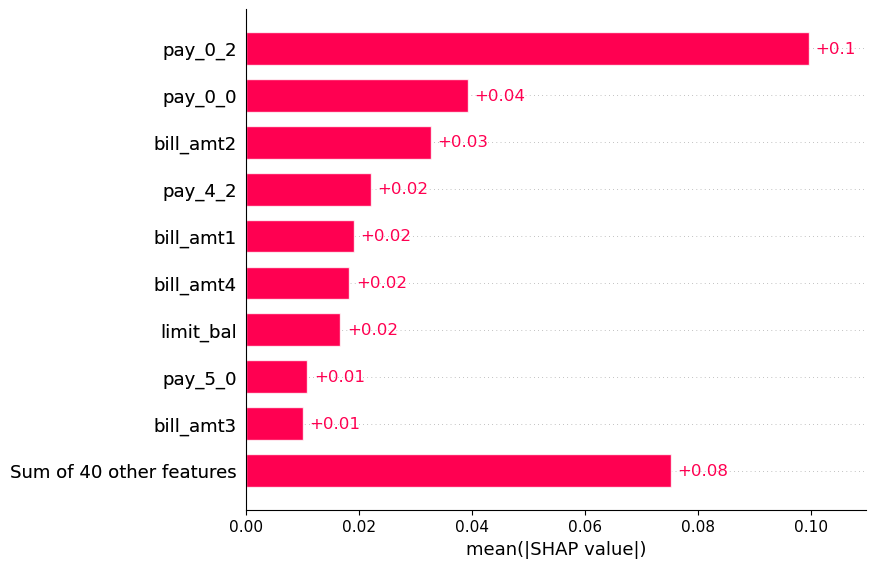
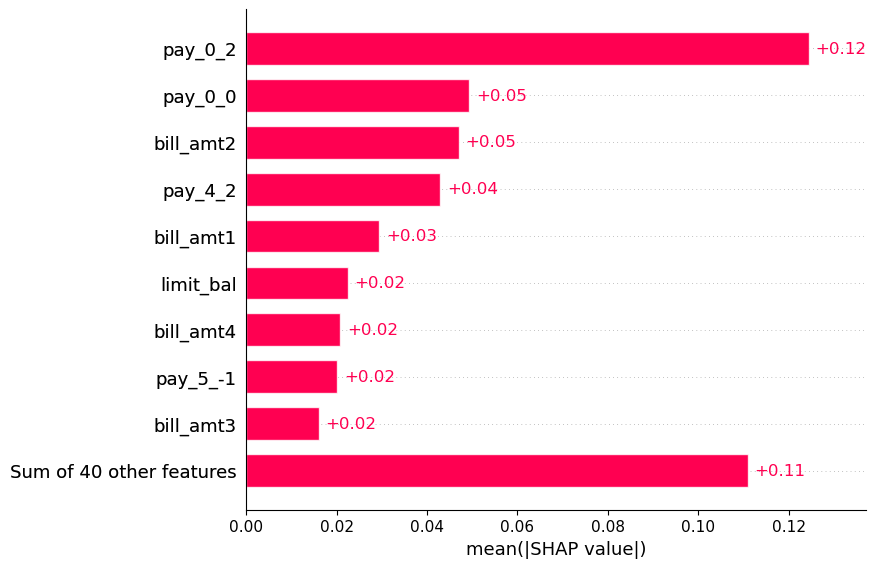
added the performance metric and seperate bm&re model

diff --git a/auto_ml_validation/app/pages/results.py b/auto_ml_validation/app/pages/results.py
@@ -4,54 +4,55 @@ import pandas as pd
 import numpy as np
 from auto_ml_validation.validation_package.evaluation import statistical_metrics_evaluator
 from auto_ml_validation.validation_package.evaluation import transparency_metrics_evaluator
+from auto_ml_validation.validation_package.evaluation import performance_metrics_evaluator
 import pickle
 from sklearn.linear_model import LogisticRegression
 from auto_ml_validation.app.index import app
 import matplotlib.pyplot as plt
 
 ############## start of codes used to load dummy data, remove later #######################
-train_prob = pd.read_csv('././data/stage_2/loanstats_train_proba.csv')
-train_processed = pd.read_csv('././data/stage_2/loanstats_train_processed.csv')
-test_prob = pd.read_csv('././data/stage_2/loanstats_test_proba.csv')
-test_processed = pd.read_csv('././data/stage_2/loanstats_test_processed.csv')
+# train_prob = pd.read_csv('././data/stage_2/loanstats_train_proba.csv')
+# train_processed = pd.read_csv('././data/stage_2/loanstats_train_processed.csv')
+# test_prob = pd.read_csv('././data/stage_2/loanstats_test_proba.csv')
+# test_processed = pd.read_csv('././data/stage_2/loanstats_test_processed.csv')
 
-# load the unprocessed dataset
-test_set = pd.read_csv('././data/stage_2/loanstats_2019Q1_test.csv', index_col = False)
-train_set = pd.read_csv('././data/stage_2/loanstats_2019Q1_train.csv', index_col = False)
+# # load the unprocessed dataset
+# test_set = pd.read_csv('././data/stage_2/loanstats_2019Q1_test.csv', index_col = False)
+# train_set = pd.read_csv('././data/stage_2/loanstats_2019Q1_train.csv', index_col = False)
 
-all_feature_list = ['loan_amnt', 'int_rate', 'installment', 'home_ownership', 'annual_inc',
-       'verification_status','dti', 'delinq_2yrs',
-       'inq_last_6mths', 'open_acc', 'pub_rec', 'revol_bal', 'total_acc',
-       'initial_list_status', 'out_prncp', 'out_prncp_inv', 'total_pymnt',
-       'total_pymnt_inv', 'total_rec_prncp', 'total_rec_int',
-       'total_rec_late_fee', 'last_pymnt_amnt', 'collections_12_mths_ex_med',
-       'application_type', 'tot_coll_amt', 'tot_cur_bal', 'open_acc_6m',
-       'open_act_il', 'open_il_12m', 'open_il_24m', 'mths_since_rcnt_il',
-       'total_bal_il', 'il_util', 'open_rv_12m', 'open_rv_24m', 'max_bal_bc',
-       'all_util', 'total_rev_hi_lim', 'inq_fi', 'total_cu_tl', 'inq_last_12m',
-       'acc_open_past_24mths', 'avg_cur_bal', 'bc_open_to_buy', 'bc_util',
-       'delinq_amnt', 'mo_sin_old_il_acct', 'mo_sin_old_rev_tl_op',
-       'mo_sin_rcnt_rev_tl_op', 'mo_sin_rcnt_tl', 'mort_acc',
-       'mths_since_recent_bc', 'mths_since_recent_inq',
-       'num_accts_ever_120_pd', 'num_actv_bc_tl', 'num_actv_rev_tl',
-       'num_bc_sats', 'num_bc_tl', 'num_il_tl', 'num_op_rev_tl',
-       'num_rev_accts', 'num_rev_tl_bal_gt_0', 'num_sats',
-       'num_tl_90g_dpd_24m', 'num_tl_op_past_12m', 'pct_tl_nvr_dlq',
-       'percent_bc_gt_75', 'pub_rec_bankruptcies', 'tax_liens',
-       'tot_hi_cred_lim', 'total_bal_ex_mort', 'total_bc_limit',
-       'total_il_high_credit_limit', 'hardship_flag', 'debt_settlement_flag']
+# all_feature_list = ['loan_amnt', 'int_rate', 'installment', 'home_ownership', 'annual_inc',
+#        'verification_status','dti', 'delinq_2yrs',
+#        'inq_last_6mths', 'open_acc', 'pub_rec', 'revol_bal', 'total_acc',
+#        'initial_list_status', 'out_prncp', 'out_prncp_inv', 'total_pymnt',
+#        'total_pymnt_inv', 'total_rec_prncp', 'total_rec_int',
+#        'total_rec_late_fee', 'last_pymnt_amnt', 'collections_12_mths_ex_med',
+#        'application_type', 'tot_coll_amt', 'tot_cur_bal', 'open_acc_6m',
+#        'open_act_il', 'open_il_12m', 'open_il_24m', 'mths_since_rcnt_il',
+#        'total_bal_il', 'il_util', 'open_rv_12m', 'open_rv_24m', 'max_bal_bc',
+#        'all_util', 'total_rev_hi_lim', 'inq_fi', 'total_cu_tl', 'inq_last_12m',
+#        'acc_open_past_24mths', 'avg_cur_bal', 'bc_open_to_buy', 'bc_util',
+#        'delinq_amnt', 'mo_sin_old_il_acct', 'mo_sin_old_rev_tl_op',
+#        'mo_sin_rcnt_rev_tl_op', 'mo_sin_rcnt_tl', 'mort_acc',
+#        'mths_since_recent_bc', 'mths_since_recent_inq',
+#        'num_accts_ever_120_pd', 'num_actv_bc_tl', 'num_actv_rev_tl',
+#        'num_bc_sats', 'num_bc_tl', 'num_il_tl', 'num_op_rev_tl',
+#        'num_rev_accts', 'num_rev_tl_bal_gt_0', 'num_sats',
+#        'num_tl_90g_dpd_24m', 'num_tl_op_past_12m', 'pct_tl_nvr_dlq',
+#        'percent_bc_gt_75', 'pub_rec_bankruptcies', 'tax_liens',
+#        'tot_hi_cred_lim', 'total_bal_ex_mort', 'total_bc_limit',
+#        'total_il_high_credit_limit', 'hardship_flag', 'debt_settlement_flag']
 
-train_data, test_data = {}, {}
+# train_data, test_data = {}, {}
 
-train_data['raw_X'] = train_set[all_feature_list]
-train_data['processed_X'] = train_processed.drop(['loan_status'], axis=1)
-train_data['y'] = train_processed['loan_status']
-train_data['pred_proba'] =  np.transpose(np.array([1-train_prob['probability'], train_prob['probability']]))
+# train_data['raw_X'] = train_set[all_feature_list]
+# train_data['processed_X'] = train_processed.drop(['loan_status'], axis=1)
+# train_data['y'] = train_processed['loan_status']
+# train_data['pred_proba'] =  np.transpose(np.array([1-train_prob['probability'], train_prob['probability']]))
 
-test_data['raw_X'] = test_set[all_feature_list]
-test_data['processed_X'] = test_processed.drop(['loan_status'], axis=1)
-test_data['y'] = test_processed['loan_status']
-test_data['pred_proba'] = np.transpose(np.array([1-test_prob['probability'], test_prob['probability']]))
+# test_data['raw_X'] = test_set[all_feature_list]
+# test_data['processed_X'] = test_processed.drop(['loan_status'], axis=1)
+# test_data['y'] = test_processed['loan_status']
+# test_data['pred_proba'] = np.transpose(np.array([1-test_prob['probability'], test_prob['probability']]))
 # print(test_data['pred_proba'])
 # print(test_data['pred_proba'][:, 1])
 ############## end of codes used to load dummy data, remove later #######################
@@ -60,15 +61,33 @@ with open('././data/validator_input/featselection_rf_2023-03-28_data.pkl', 'rb')
     data = pickle.load(f)
 # print(data)
 
-train_data = data['bm_train_data']
-test_data = data['bm_other_data']['Test']
+bm_train_data = data['bm_train_data']
+bm_test_data = data['bm_other_data']['Test']
+re_train_data = data['re_train_data']
+re_test_data = data['re_other_data']['Test']
 
-#X = train_data['processed_X'].iloc[0:2500]
-#.to_csv('././data/stage_2/processed_X_for_trans.csv')
-#y = train_data['y'].iloc[0:2500]
+def result_control():
+    return html.Div([
+        html.Div([
+            html.Div([
+                html.H6('Classification threshold: '),
+                html.Div([
+                    html.Div(
+                        [dcc.Input(id='threshold', type='range', value=0.5, min=0, max=1)]),
+                ])
+            ])
+        ]),
+    ])
 
-# lr = LogisticRegression(max_iter=1000).fit(X, y)
-# pickle.dump(lr, open('././models/lr.pkl', 'wb'))
+
+
+def performance_metric_layout():
+
+    return html.Div(   [ 
+        dcc.Graph(id='dist-curve', figure = {}),
+        dcc.Graph(id='roc-curve', figure={}),
+        dcc.Graph(id='pr-curve', figure={})
+    ])
 
 def statistical_model_metrics_layout(train_data: pd.DataFrame,
                test_data: pd.DataFrame,
@@ -146,9 +165,6 @@ def gini_layout(train_data: pd.DataFrame,
         html.Br()        
     ]) 
 
-
-
-
 def csi_table_layout(train_data: pd.DataFrame,
                            test_data: pd.DataFrame, 
                            ft_name_list: list[str], 
@@ -187,7 +203,13 @@ def csi_table_layout(train_data: pd.DataFrame,
 
 def trans_layout(train_data:pd.DataFrame,
                  model_path: str)->html.Div:
-
+    
+    # return dcc.Loading(id="loading",
+    #                 children=[html.Div('Loading...', style={'color': '#3D9970'})], 
+    #                 type='default', 
+    #                 fullscreen=True, 
+    #                 color='#3D9970', 
+    #                 loading_state=True)
     with open(model_path, 'rb') as f:
         model = pickle.load(f)
 
@@ -216,11 +238,7 @@ def trans_layout(train_data:pd.DataFrame,
         html.Img(src=app.get_asset_url("images/global_shap.png")),
         ])
 
-#html.Div( 
-        #style={'backgroundColor': '#fee6c8', 'width': '95%', 'margin': 'auto'}, children=[
-        #html.Br(),
-       
-    #]) 
+
 
 
 

diff --git a/auto_ml_validation/app/callbacks/results_callbacks.py b/auto_ml_validation/app/callbacks/results_callbacks.py
@@ -4,6 +4,41 @@ from dash.dependencies import Input, Output, State
 import json
 # Body Content
 
+# callbacks
+@app.callback(
+    [Output('dist-curve', 'figure'), 
+     Output('roc-curve', 'figure'),
+     Output('pr-curve', 'figure'), 
+     #Output('metrics', 'children')
+     ],
+    [Input('threshold', 'value')]
+)
+def generate_performance_metrics(threshold):
+    with open('././models/lr.pkl', 'rb') as f:
+        model = pickle.load(f)
+    pme = performance_metrics_evaluator.PerformanceEvaluator(bm_test_data['pred_proba'],
+                                                             float(threshold),
+                                                             bm_test_data['y'],
+                                                             bm_test_data['processed_X'],
+                                                             model,)
+
+    dist = pme.get_dist_plot()
+    roc = pme.get_roc_curve()
+    pr = pme.get_pr_curve()
+    # lift = pme.get_lift_chart()
+    metrics = pme.cal_metrics()
+    # confusion_matrix = pme.get_confusion_matrix()
+
+    metrics_comp = html.Div([
+        html.H6(f'Accuracy {metrics["accuracy"]}'),
+        html.H6(f'Precision {metrics["precision"]}'),
+        html.H6(f'Recall {metrics["recall"]}'),
+        html.H6(f'F1-Score {metrics["f1_score"]}'),
+        ])
+
+    return dist, roc, pr
+# , metrics_comp
+
 # Update the PSI table when user change num of bins
 @app.callback(
     Output("psi-table", "data"),
@@ -11,8 +46,8 @@ import json
 )
 # def update_statistical_metrics(num_of_bins):
 def update_psi_table(num_of_bins):
-        my_class = statistical_metrics_evaluator.StatisticalMetricsEvaluator(train_data, 
-                                                                         test_data)
+        my_class = statistical_metrics_evaluator.StatisticalMetricsEvaluator(bm_train_data, 
+                                                                         bm_test_data)
         psi_score, psi_df = my_class.calculate_psi(num_of_bins)
         # reset index as columns for display
         psi_df.columns = psi_df.columns.astype(str)
@@ -28,8 +63,7 @@ def update_psi_table(num_of_bins):
     Input("psi-num-of-bins", "value")
 )
 def update_psi_score(num_of_bins):
-        my_class = statistical_metrics_evaluator.StatisticalMetricsEvaluator(train_data, 
-                                                                         test_data)
+        my_class = statistical_metrics_evaluator.StatisticalMetricsEvaluator(bm_train_data, bm_test_data)
         psi_score, psi_df = my_class.calculate_psi(num_of_bins)
 
         return 'PSI Score: '+ str(psi_score)
@@ -39,8 +73,7 @@ def update_psi_score(num_of_bins):
     Input("gini-feature-multi-dynamic-dropdown", "value"), 
 )            
 def update_gini(ft_name_list: list[str]):
-    stats_class = statistical_metrics_evaluator.StatisticalMetricsEvaluator(train_data, 
-                                                                                test_data)
+    stats_class = statistical_metrics_evaluator.StatisticalMetricsEvaluator(bm_train_data, bm_test_data)
     gini = stats_class.cal_feature_gini()
     
     gini_children = []
@@ -58,9 +91,10 @@ def update_gini(ft_name_list: list[str]):
     Input("csi-feature-multi-dynamic-dropdown", "value"),
     Input("csi-num-of-bins", "value")
 )
-def update_csi_metrcis(feature_list, num_of_bins):
-        stats_class = statistical_metrics_evaluator.StatisticalMetricsEvaluator(train_data, 
-                                                                                test_data)
+def update_csi_metrics(feature_list, num_of_bins):
+        
+        stats_class = statistical_metrics_evaluator.StatisticalMetricsEvaluator(bm_train_data, 
+                                                                                bm_test_data)
         
         csi_df, csi_dict = stats_class.csi_for_all_features(feature_list, num_of_bins)
 
@@ -84,19 +118,35 @@ def update_csi_metrcis(feature_list, num_of_bins):
 
 # Layout
 results_layout = html.Div(children=[
+    result_control(),
+    html.H2('Result for Replicated Model'),
+    html.Br(),
+    performance_metric_layout(),
+    # performance_metric_layout(test_data, '././models/lr.pkl'),
+    html.Br(),
+    statistical_model_metrics_layout(re_train_data, re_test_data, 10),
     html.Br(),
     html.Br(),
-    html.Br(),
-    statistical_model_metrics_layout(train_data, test_data, 10),
-    html.Br(),
-    html.Br(),
-    gini_layout(train_data, test_data,[]),
-    csi_table_layout(train_data, test_data, 
-                           [],
-                            10),
+    gini_layout(re_train_data, re_test_data,[]),
+    csi_table_layout(re_train_data, re_test_data, [], 10),
     html.Br(),
     html.Br(),
-    trans_layout(train_data, '././models/lr.pkl'),                     
+    # trans_layout(re_train_data, '././models/lr.pkl'),  
+    html.Br(),
+    html.H2('Result fo Benchmark Model'), 
+    html.Br(),
+    performance_metric_layout(),
+    # performance_metric_layout(test_data, '././models/lr.pkl'),
+    html.Br(),
+    statistical_model_metrics_layout(bm_train_data, bm_test_data, 10),
+    html.Br(),
+    html.Br(),
+    gini_layout(bm_train_data, bm_test_data,[]),
+    csi_table_layout(bm_train_data, bm_test_data, [], 10),
+    html.Br(),
+    html.Br(),
+    trans_layout(bm_train_data, '././models/lr.pkl'),  
+    html.Br(),
     ])
 
 @app.callback(Output('output-div', 'children'),

diff --git a/auto_ml_validation/validation_package/evaluation/performance_metrics_evaluator.py b/auto_ml_validation/validation_package/evaluation/performance_metrics_evaluator.py
@@ -44,14 +44,14 @@ class PerformanceEvaluator:
         chart_df.columns = ["postive probability"]
         fig = px.histogram(chart_df, x="postive probability",
                            title="Prediction Distribution")
-        fig.show()
+        # fig.show()
         return fig
 
     def get_confusion_matrix(self):
         return ConfusionMatrixDisplay.from_predictions(self.y_true, self.y_pred,
                                                        cmap='Oranges')
 
-    def cal_metrics(self) -> float:
+    def cal_metrics(self) -> dict[str,float]:
         return {
             "accuracy": skl.accuracy_score(self.y_true, self.y_pred),
             "precision": skl.precision_score(self.y_true, self.y_pred),
@@ -67,7 +67,7 @@ class PerformanceEvaluator:
             labels=dict(x='False Positive Rate', y='True Positive Rate'),
             width=700, height=500
         )
-        fig.show()
+       # fig.show()
         return fig
 
     def get_pr_curve(self):
@@ -79,7 +79,7 @@ class PerformanceEvaluator:
             labels=dict(x='Recall', y='Precision'),
             width=700, height=500
         )
-        fig.show()
+        # fig.show()
         return fig
 
     def cal_auc(self):
